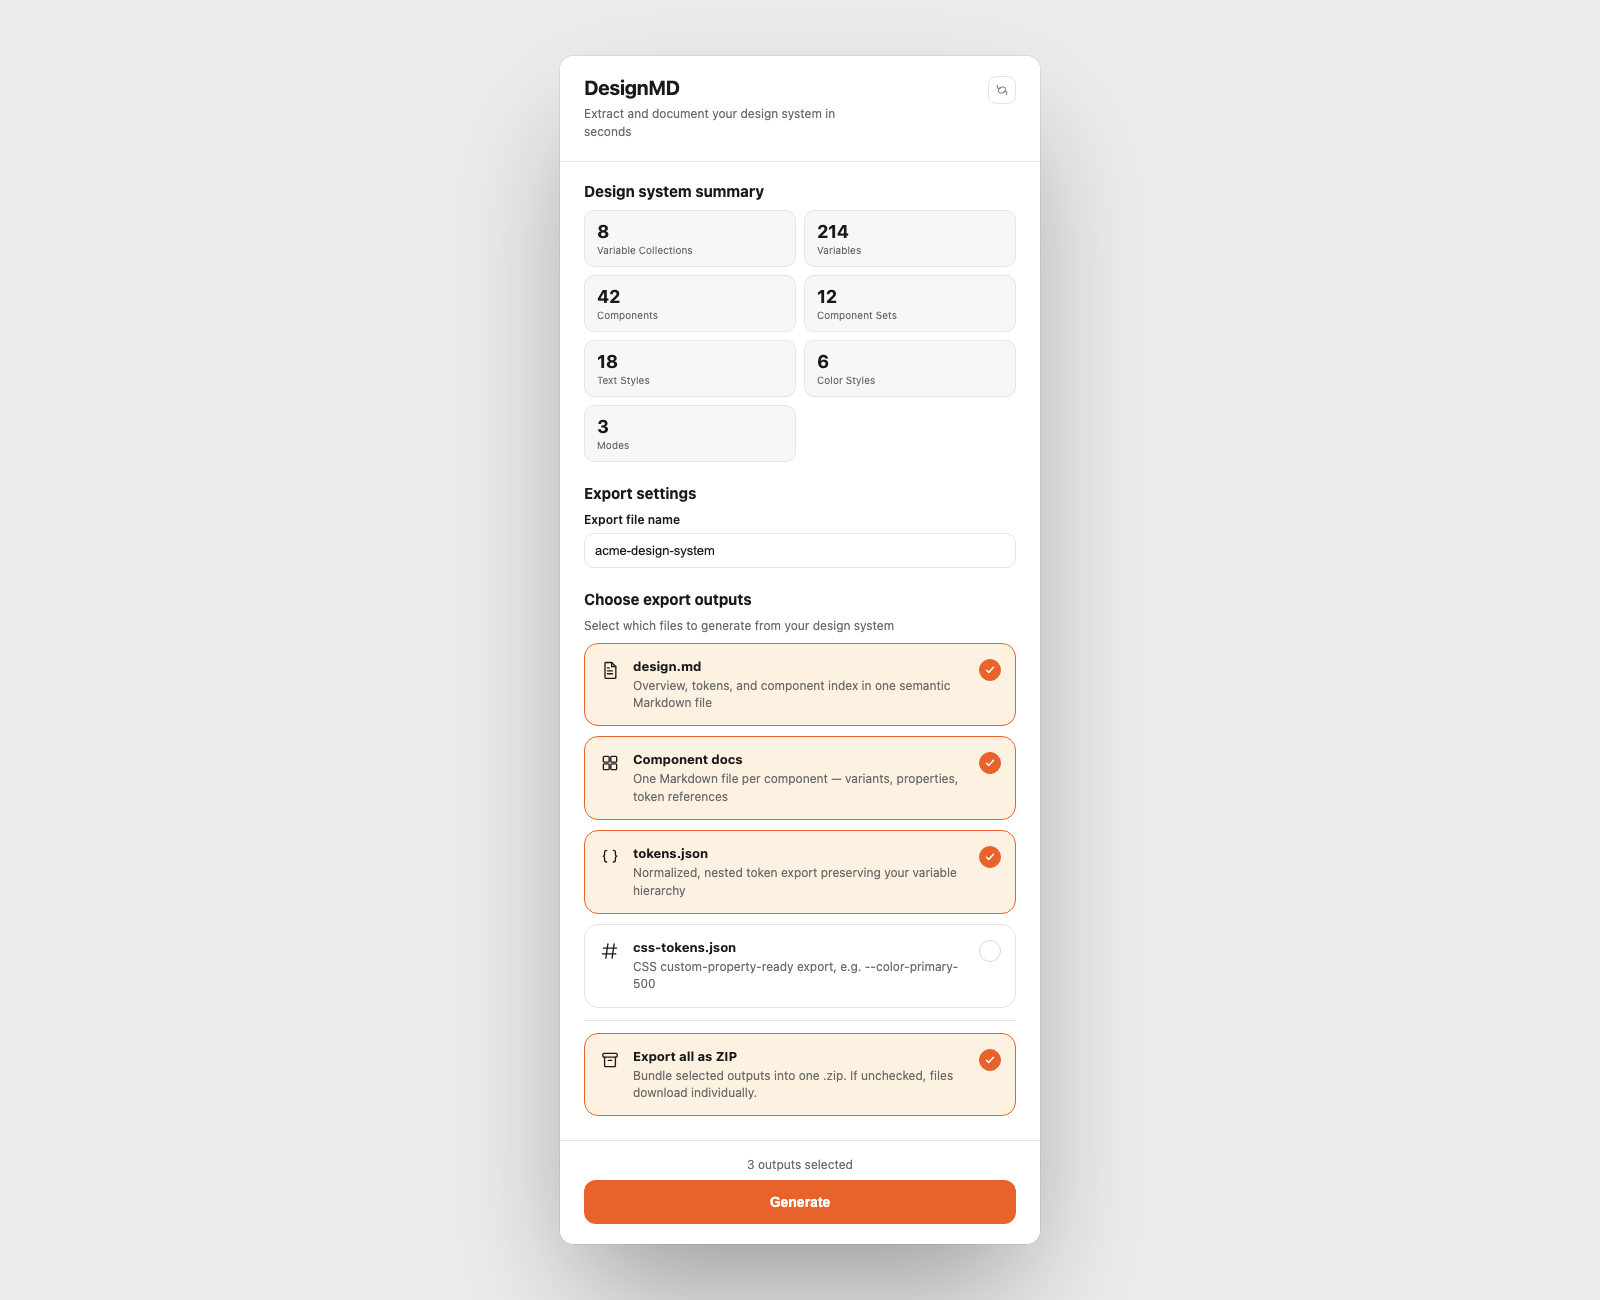
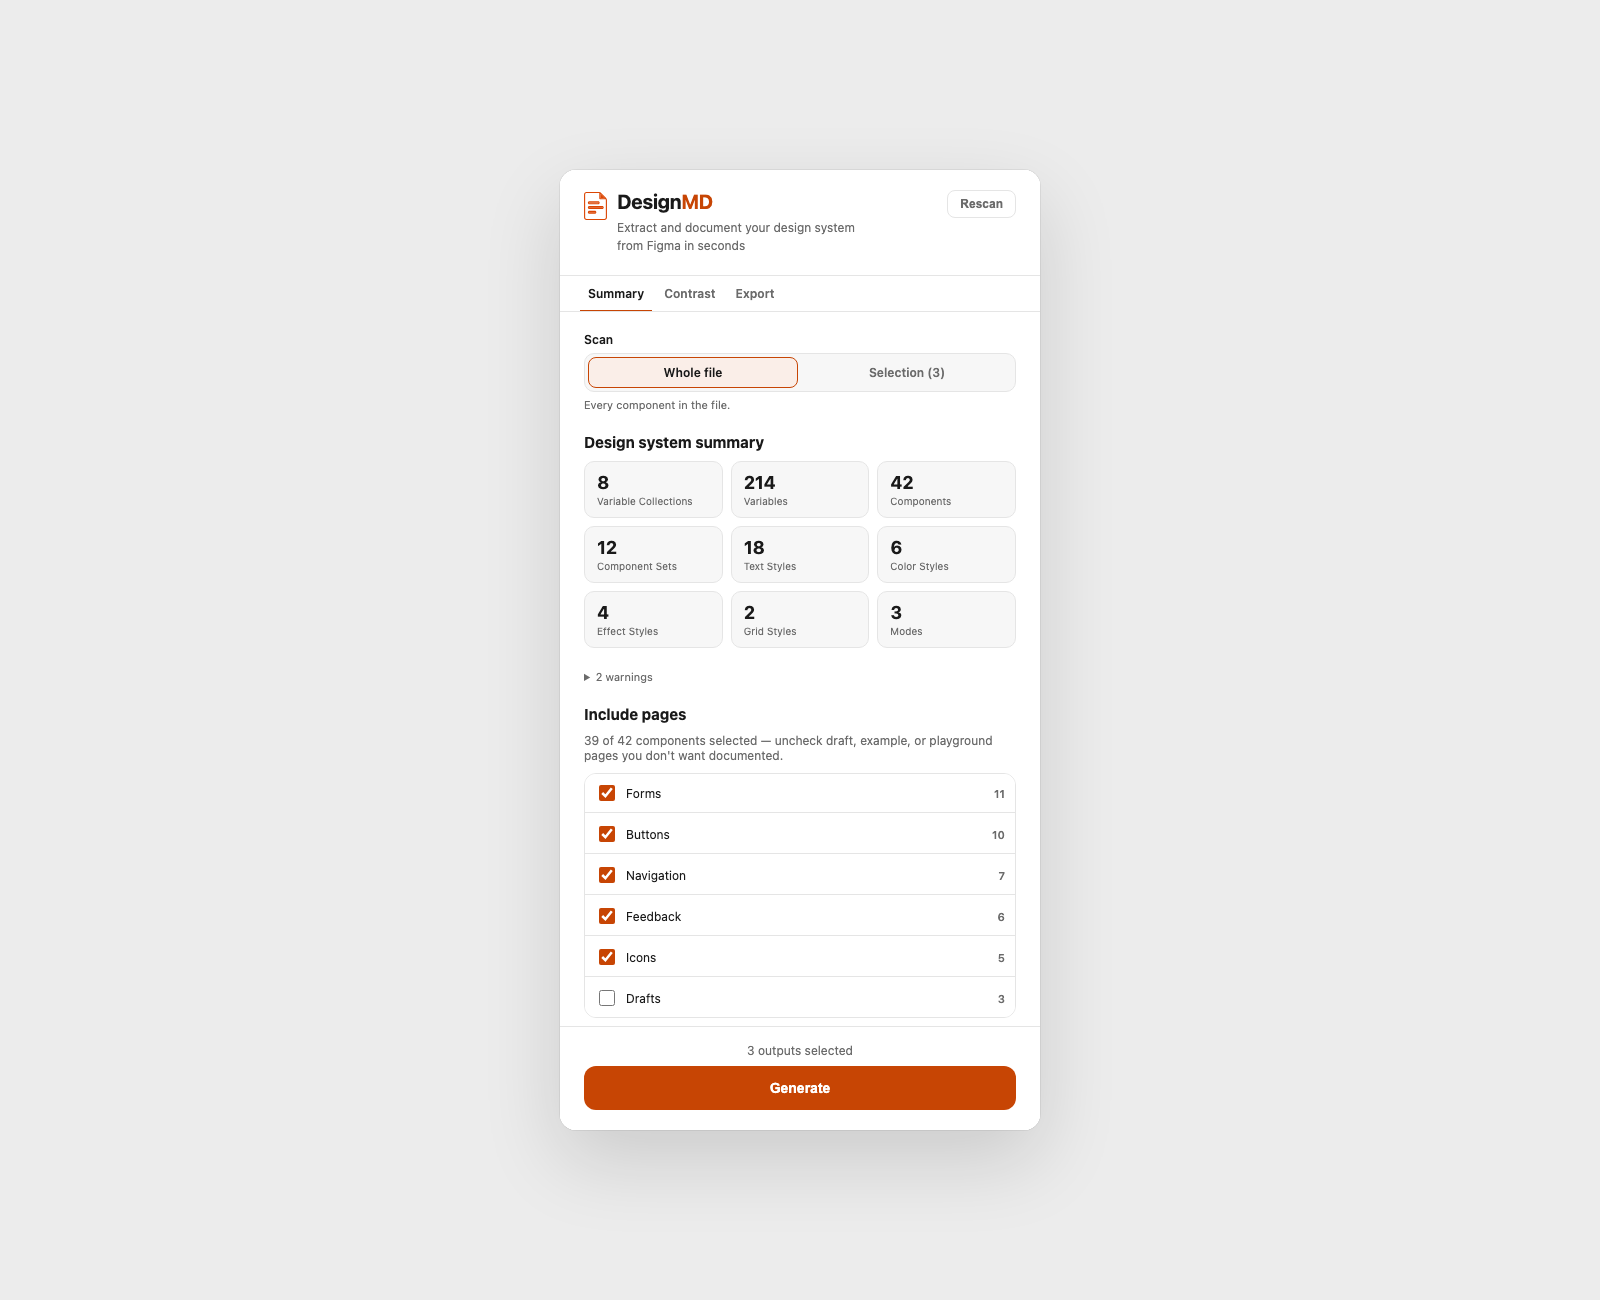
Retake the Community screenshot with the tabbed UI

diff --git a/DesignMD/assets/community-listing.md b/DesignMD/assets/community-listing.md
@@ -103,7 +103,7 @@ plugin sandbox. Nothing is uploaded anywhere.
 
 - `icon.png` — 128×128 plugin icon
 - `thumbnail.png` — 1920×960 Community cover image
-- `screenshot-1.png` — gallery screenshot of the plugin UI. **Out of date:** it predates the tabbed UI (Summary, Contrast, Export, Files); retake it before the next Community update
+- `screenshot-1.png` — 1600×1300 gallery screenshot of the tabbed plugin UI (Summary tab, with realistic sample numbers)
 
 All three were generated to match the plugin's actual UI (same colors, same component
 styling) so the listing accurately represents what using the plugin looks like.
